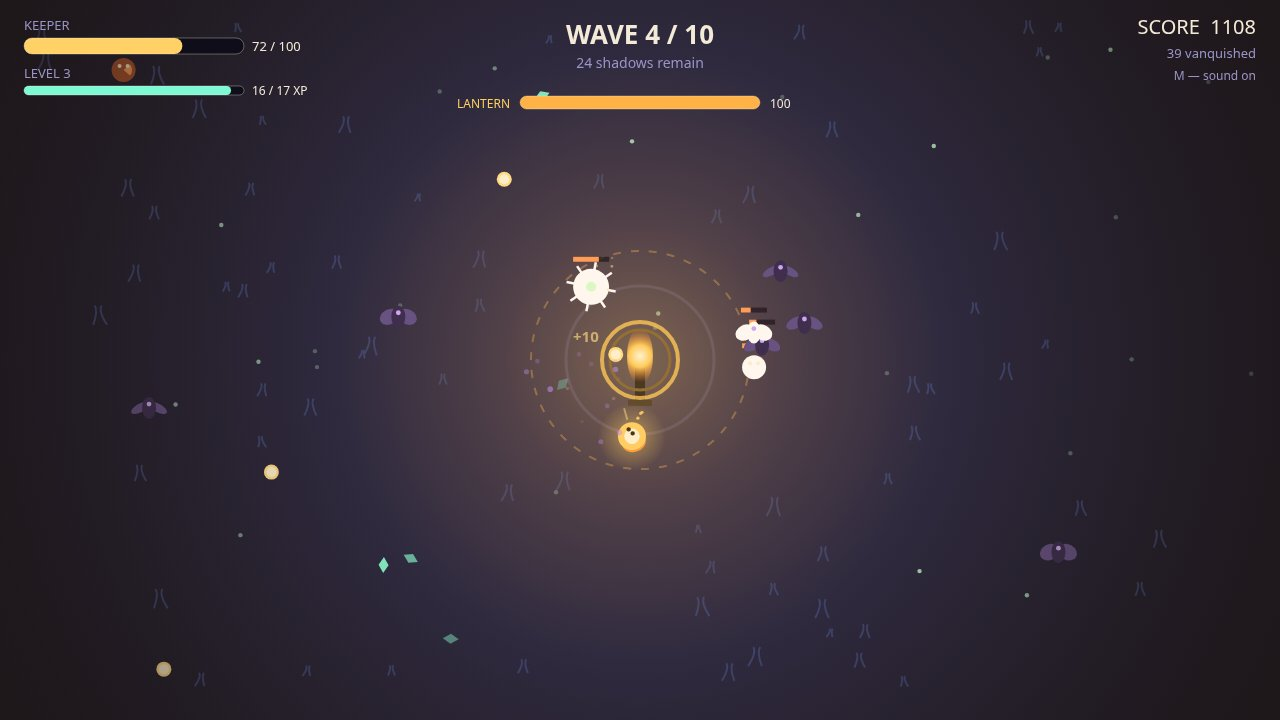
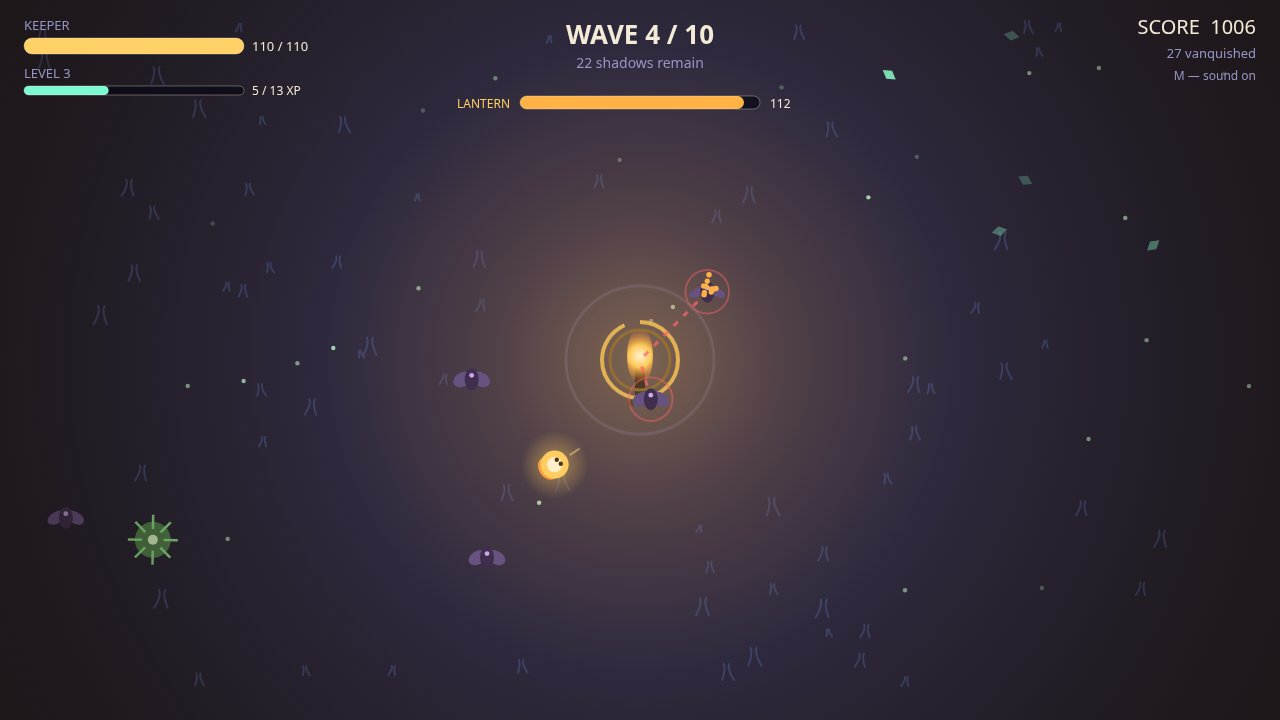
EMBERFALL final — balance tuning, Ember Chain, telegraphs, new screenshots

diff --git a/game/src/render.js b/game/src/render.js
@@ -4,6 +4,7 @@
 // canvas, scaled to fit, and shakes the whole view when the world says so.
 
 import { FIELD, FONT, LANTERN, PALETTE } from './config.js';
+import { enemyTarget } from './enemies.js';
 import { auraRadius } from './upgrades.js';
 
 export const SCREEN_TITLE = 'title';
@@ -32,11 +33,19 @@ export function createRenderer(canvas) {
   function drawGround(state) {
     ctx.fillStyle = PALETTE.backdrop;
     ctx.fillRect(0, 0, FIELD.width, FIELD.height);
-    // The garden floor: a soft radial wash, darker at the edges.
+    // The garden floor: a soft radial wash, darker at the edges. The wash shifts with
+    // the night — boss waves burn red at the edges, late waves sink deeper violet —
+    // so each wave reads differently in a screenshot.
+    const wave = state.waves.wave;
+    const washStops = wave % 5 === 0 && wave > 0
+      ? ['#2c1f4e', '#1c1436', '#120a24']
+      : wave >= 8 ? ['#1d2350', '#141736', '#0a0c20']
+        : wave >= 5 ? ['#262a58', '#181b3c', '#0c0e22']
+          : ['#232650', '#171a38', '#0b0d20'];
     const wash = ctx.createRadialGradient(LANTERN.x, LANTERN.y, 60, LANTERN.x, LANTERN.y, 700);
-    wash.addColorStop(0, '#232650');
-    wash.addColorStop(0.55, '#171a38');
-    wash.addColorStop(1, '#0b0d20');
+    wash.addColorStop(0, washStops[0]);
+    wash.addColorStop(0.55, washStops[1]);
+    wash.addColorStop(1, washStops[2]);
     ctx.fillStyle = wash;
     ctx.fillRect(0, 0, FIELD.width, FIELD.height);
     // Grass tufts sway in the dark.
@@ -141,6 +150,39 @@ export function createRenderer(canvas) {
 
   function drawEnemy(state, enemy) {
     const flash = enemy.hitFlash > 0;
+    // Telegraph: a shadow marching on the lantern shows a dashed red thread to it,
+    // pulsing hard when it is about to bite — the keeper can see the danger coming
+    // and which foe to burn first. The boss always wears a pulsing danger ring.
+    const target = enemyTarget(enemy, state.player, state.lantern);
+    const toLantern = Math.hypot(enemy.x - LANTERN.x, enemy.y - LANTERN.y);
+    if (target === state.lantern && toLantern < 300) {
+      const near = toLantern < 120;
+      const pulse = 0.35 + 0.3 * Math.sin(state.time * 8);
+      ctx.strokeStyle = `rgba(255, 93, 115, ${near ? Math.max(0.55, pulse + 0.3).toFixed(3) : pulse.toFixed(3)})`;
+      ctx.lineWidth = near ? 3 : 2;
+      ctx.setLineDash([6, 8]);
+      ctx.beginPath();
+      ctx.moveTo(enemy.x, enemy.y);
+      ctx.lineTo(LANTERN.x, LANTERN.y);
+      ctx.stroke();
+      ctx.setLineDash([]);
+      if (near) {
+        ctx.strokeStyle = `rgba(255, 93, 115, ${Math.max(0.4, pulse).toFixed(3)})`;
+        ctx.lineWidth = 2;
+        ctx.beginPath();
+        ctx.arc(enemy.x, enemy.y, enemy.radius + 8 + Math.sin(state.time * 8) * 3, 0, Math.PI * 2);
+        ctx.stroke();
+      }
+    }
+    if (enemy.kind === 'boss') {
+      ctx.strokeStyle = `rgba(255, 93, 115, ${(0.4 + 0.25 * Math.sin(state.time * 5)).toFixed(3)})`;
+      ctx.lineWidth = 3;
+      ctx.setLineDash([10, 8]);
+      ctx.beginPath();
+      ctx.arc(enemy.x, enemy.y, 92 + Math.sin(state.time * 5) * 5, 0, Math.PI * 2);
+      ctx.stroke();
+      ctx.setLineDash([]);
+    }
     ctx.save();
     ctx.translate(enemy.x, enemy.y);
     if (enemy.kind === 'moth') {
@@ -339,6 +381,16 @@ export function createRenderer(canvas) {
     }
     if (state.flash > 0) {
       ctx.fillStyle = `rgba(255, 170, 60, ${(state.flash * 0.18).toFixed(3)})`;
+      ctx.fillRect(0, 0, FIELD.width, FIELD.height);
+    }
+    // A failing lantern throbs red at the screen's edge — impossible to miss.
+    const lfrac = state.lantern.hp / state.lantern.maxHp;
+    if (lfrac < 0.3 && !state.over) {
+      const throb = 0.10 + 0.08 * Math.sin(state.time * 6);
+      const edge = ctx.createRadialGradient(640, 360, 260, 640, 360, 720);
+      edge.addColorStop(0, 'rgba(255, 40, 70, 0)');
+      edge.addColorStop(1, `rgba(255, 40, 70, ${throb.toFixed(3)})`);
+      ctx.fillStyle = edge;
       ctx.fillRect(0, 0, FIELD.width, FIELD.height);
     }
   }

diff --git a/game/src/config.js b/game/src/config.js
@@ -14,15 +14,15 @@ export const WAVES_TO_WIN = 10;
 export const PLAYER = {
   radius: 14,
   speed: 255,
-  maxHp: 100,
+  maxHp: 110,
   pickupRadius: 46,
-  fireInterval: 0.34,
+  fireInterval: 0.32,
   boltSpeed: 640,
-  boltDamage: 14,
+  boltDamage: 15,
   boltRadius: 5,
-  invulnerable: 0.8,
-  xpNextBase: 5,
-  xpNextPerLevel: 4,
+  invulnerable: 1.0,
+  xpNextBase: 4,
+  xpNextPerLevel: 3,
 };
 
 export const BOLT = { radius: 5, life: 1.4 };
@@ -31,35 +31,38 @@ export const SHARD = { radius: 7, value: 1, life: 25 };
 
 /** Enemy kinds. `target` is who they hunt: 'player', 'lantern', or 'nearest'. */
 export const ENEMY = {
-  moth: { hp: 18, speed: 98, radius: 13, touch: 8, lanternTouch: 5, score: 10, shards: 1, target: 'nearest', colour: '#b78cff' },
-  thorn: { hp: 58, speed: 52, radius: 18, touch: 14, lanternTouch: 8, score: 25, shards: 3, target: 'lantern', colour: '#7fe08a' },
-  eater: { hp: 30, speed: 132, radius: 12, touch: 10, lanternTouch: 7, score: 15, shards: 2, target: 'player', colour: '#ff9d5c' },
-  boss: { hp: 540, speed: 62, radius: 42, touch: 18, lanternTouch: 10, score: 200, shards: 10, target: 'nearest', colour: '#e5536b' },
+  moth: { hp: 18, speed: 98, radius: 13, touch: 7, lanternTouch: 4, score: 10, shards: 1, target: 'nearest', colour: '#b78cff' },
+  thorn: { hp: 58, speed: 52, radius: 18, touch: 12, lanternTouch: 6, score: 25, shards: 3, target: 'lantern', colour: '#7fe08a' },
+  eater: { hp: 30, speed: 124, radius: 12, touch: 9, lanternTouch: 5, score: 15, shards: 2, target: 'player', colour: '#ff9d5c' },
+  boss: { hp: 500, speed: 62, radius: 42, touch: 16, lanternTouch: 8, score: 200, shards: 10, target: 'nearest', colour: '#e5536b' },
 };
 
-/** Wave n (1-based) composition: how many of each kind queue up, and how fast they arrive. */
+/** Wave n (1-based) composition: how many of each kind queue up, and how fast they arrive.
+ *  The early curve is deliberately gentle — fewer foes, slower trickle, thorns and eaters
+ *  debut on waves 3 and 4 — so a human player learns the guard before the swarm thickens.
+ *  Late waves keep the probe's full pressure (counts and scaling catch up by wave 6+). */
 export function waveComposition(n) {
-  const moths = 4 + 3 * n;
-  const thorns = n >= 2 ? 1 + Math.floor(n / 2) : 0;
-  const eaters = n >= 3 ? 2 * n - 2 : 0;
+  const moths = 4 + 3 * n - (n <= 2 ? 2 : 0);
+  const thorns = n >= 3 ? Math.floor(n / 2) : 0;
+  const eaters = n >= 4 ? 2 * n - 4 : 0;
   const boss = n % 5 === 0 ? 1 : 0;
-  const interval = Math.max(0.42, 1.05 - 0.05 * n);
-  const hpScale = 1 + 0.09 * (n - 1);
+  const interval = Math.max(0.42, 1.25 - 0.06 * n);
+  const hpScale = 1 + 0.08 * (n - 1);
   const speedScale = 1 + 0.02 * (n - 1);
   return { moths, thorns, eaters, boss, interval, hpScale, speedScale };
 }
 
 /** Seconds of calm between waves; the lantern mends a little in the lull. */
 export const BETWEEN_WAVES = 4;
-export const LANTERN_MEND_BETWEEN_WAVES = 12;
+export const LANTERN_MEND_BETWEEN_WAVES = 18;
 
 /** Damage per second the lantern's own flame deals to anything touching it. */
-export const LANTERN_FLAME_DPS = 6;
+export const LANTERN_FLAME_DPS = 16;
 
 /** At most this many enemies alive at once; the rest wait in the wave queue. */
 export const MAX_ALIVE = 22;
 
-export const LANTERN_MAX_HP = 100;
+export const LANTERN_MAX_HP = 120;
 export const LANTERN_AURA_BASE_RADIUS = 95;
 export const LANTERN_AURA_BASE_DPS = 0;
 

diff --git a/game/src/world.js b/game/src/world.js
@@ -89,6 +89,8 @@ export function createWorld(random) {
     levelUpsPending: 0,
     attractTimer: 0,
     wave: 0,
+    combo: 0,
+    comboTimer: 0,
   };
 
   function reset() {
@@ -114,6 +116,8 @@ export function createWorld(random) {
     state.pendingChoices = null;
     state.levelUpsPending = 0;
     state.attractTimer = 0;
+    state.combo = 0;
+    state.comboTimer = 0;
     waves.betweenTimer = 1.2;
     waves.wave = 0;
   }
@@ -142,6 +146,14 @@ export function createWorld(random) {
     enemy.dead = true;
     state.kills += 1;
     state.score += enemy.score;
+    // Ember chain: quick kills in a row feed a combo that pays a small bonus and
+    // flashes on screen, so aggressive play feels — and scores — better.
+    state.combo += 1;
+    state.comboTimer = 2.5;
+    if (state.combo >= 3) state.score += Math.min(state.combo, 12);
+    if (state.combo === 5 || state.combo === 10 || state.combo === 15 || state.combo === 25) {
+      addFloater(state, enemy.x, enemy.y - enemy.radius - 26, `EMBER CHAIN ×${state.combo}`, '#ff9d3c', 18);
+    }
     addFloater(state, enemy.x, enemy.y - enemy.radius - 6, `+${enemy.score}`, '#ffe08a', 15);
     burst(state, enemy.x, enemy.y, isBoss(enemy) ? 46 : 14, enemy.colour, isBoss(enemy) ? 260 : 170, 0.7, 4);
     burst(state, enemy.x, enemy.y, 8, '#ffe9b0', 120, 0.5, 3);
@@ -268,7 +280,11 @@ export function createWorld(random) {
     if (kind !== null) {
       const enemy = spawnEnemy(random, kind, waves.wave, waves.hpScale, waves.speedScale);
       state.enemies.push(enemy);
-      if (isBoss(enemy)) events |= EVENT_BOSS;
+      if (isBoss(enemy)) {
+        events |= EVENT_BOSS;
+        state.shake = Math.max(state.shake, 0.4);
+        addFloater(state, LANTERN.x, LANTERN.y - 90, '⚠ THE GLOOM MOTH COMES ⚠', '#ff5d73', 20);
+      }
     }
     if (waves.readyForNext) {
       startWave(waves, random, waves.wave + 1);
@@ -412,12 +428,15 @@ export function createWorld(random) {
       }
     }
 
-    // Wave cleared: bonus, a mended lantern, and either dawn or the next wave.
+    // Wave cleared: bonus, a mended lantern, the keeper catches breath, and either dawn or the next wave.
     if (waveCleared(waves, state.enemies.length)) {
       const bonus = 100 * waves.wave;
       state.score += bonus;
-      addFloater(state, LANTERN.x, LANTERN.y - 70, `WAVE ${waves.wave} CLEAR  +${bonus}`, '#ffe08a', 18);
+      addFloater(state, LANTERN.x + 320, LANTERN.y + 150, `WAVE ${waves.wave} CLEAR  +${bonus}`, '#ffe08a', 18);
       lantern.hp = Math.min(lantern.maxHp, lantern.hp + LANTERN_MEND_BETWEEN_WAVES);
+      healPlayer(player, 12);
+      state.combo = 0;
+      state.comboTimer = 0;
       events |= EVENT_WAVE_CLEAR;
       if (waves.wave >= WAVES_TO_WIN) {
         state.won = true;
@@ -425,6 +444,12 @@ export function createWorld(random) {
       } else {
         startBetweenWaves(waves);
       }
+    }
+
+    // The ember chain cools off when the keeper stops burning shadows.
+    if (state.comboTimer > 0) {
+      state.comboTimer -= dt;
+      if (state.comboTimer <= 0) state.combo = 0;
     }
 
     stepParticles(dt);

diff --git a/game/src/ui.js b/game/src/ui.js
@@ -88,11 +88,12 @@ export function createUi() {
     const remaining = state.enemies.length + state.waves.queue.length;
     bodyText(ctx, state.waves.active ? `${remaining} shadow${remaining === 1 ? '' : 's'} remain` : 'the garden breathes…', FIELD.width / 2, 68, 14, PALETTE.muted);
 
-    // Top-right: score, kills, mute.
+    // Top-right: score, kills, ember chain, mute.
     ctx.textAlign = 'right';
     bodyText(ctx, `SCORE  ${state.score}`, FIELD.width - 24, 34, 20, PALETTE.text, 'right');
     bodyText(ctx, `${state.kills} vanquished`, FIELD.width - 24, 58, 13, PALETTE.muted, 'right');
-    bodyText(ctx, muted ? 'M — sound off' : 'M — sound on', FIELD.width - 24, 80, 12, PALETTE.muted, 'right');
+    if (state.combo >= 3) bodyText(ctx, `EMBER CHAIN ×${state.combo}`, FIELD.width - 24, 80, 14, '#ff9d3c', 'right');
+    bodyText(ctx, muted ? 'M — sound off' : 'M — sound on', FIELD.width - 24, state.combo >= 3 ? 102 : 80, 12, PALETTE.muted, 'right');
 
     // Lantern health, under the wave label: the flame you are guarding.
     const lfrac = lantern.hp / lantern.maxHp;
@@ -105,6 +106,7 @@ export function createUi() {
       const alpha = Math.min(1, state.waves.banner / 0.6);
       ctx.globalAlpha = alpha;
       titleText(ctx, state.waves.bannerText, FIELD.width / 2, 210, 40, '#ffe9b0');
+      if (state.waves.bannerSub) bodyText(ctx, state.waves.bannerSub, FIELD.width / 2, 244, 17, PALETTE.muted);
       ctx.globalAlpha = 1;
     }
   }
@@ -123,7 +125,8 @@ export function createUi() {
     bodyText(ctx, 'and hold until dawn breaks.', 640, 338, 18, PALETTE.text);
     bodyText(ctx, 'WASD / arrows — move      Mouse — aim      Hold click — shoot (or it fires on its own)', 640, 388, 16, PALETTE.muted);
     bodyText(ctx, 'Shadows hunt you AND the lantern. Gather light shards, level up, choose blessings.', 640, 414, 16, PALETTE.muted);
-    bodyText(ctx, 'P — pause      M — mute      R — restart', 640, 440, 16, PALETTE.muted);
+    bodyText(ctx, 'A red thread marks a shadow creeping for the lantern — burn it first.', 640, 438, 16, '#ff8ba0');
+    bodyText(ctx, 'P — pause      M — mute      R — restart', 640, 464, 16, PALETTE.muted);
     // Start button.
     const bw = 300;
     const bh = 62;

diff --git a/game/src/upgrades.js b/game/src/upgrades.js
@@ -2,7 +2,7 @@
 // A choice is offered only while it still does something — a maxed blessing never shows
 // again, and the lantern-mending blessing only appears while the lantern is hurt.
 
-import { LANTERN_AURA_BASE_RADIUS, NOVA } from './config.js';
+import { LANTERN_AURA_BASE_RADIUS, NOVA, PLAYER } from './config.js';
 
 export const UPGRADES = [
   {
@@ -10,8 +10,8 @@ export const UPGRADES = [
     name: 'Rapid Embers',
     desc: '+18% fire rate — your bolts fly faster.',
     max: 5,
-    level: (p) => Math.round((0.34 / p.fireInterval - 1) / 0.18),
-    canOffer: (p) => p.fireInterval > 0.34 / 1.18 ** 5 + 0.001,
+    level: (p) => Math.round((PLAYER.fireInterval / p.fireInterval - 1) / 0.18),
+    canOffer: (p) => p.fireInterval > PLAYER.fireInterval / 1.18 ** 5 + 0.001,
     apply: (p) => { p.fireInterval /= 1.18; },
   },
   {
@@ -28,8 +28,8 @@ export const UPGRADES = [
     name: 'Heavy Embers',
     desc: '+30% bolt damage — shadows burst sooner.',
     max: 5,
-    level: (p) => Math.round((p.damage / 14 - 1) / 0.3),
-    canOffer: (p) => p.damage < 14 * 1.3 ** 5 + 0.01,
+    level: (p) => Math.round((p.damage / PLAYER.boltDamage - 1) / 0.3),
+    canOffer: (p) => p.damage < PLAYER.boltDamage * 1.3 ** 5 + 0.01,
     apply: (p) => { p.damage *= 1.3; },
   },
   {
@@ -55,8 +55,8 @@ export const UPGRADES = [
     name: 'Swift Wisp',
     desc: '+12% movement speed — outrun the dark.',
     max: 4,
-    level: (p) => Math.round((p.speed / 255 - 1) / 0.12),
-    canOffer: (p) => p.speed < 255 * 1.12 ** 4 + 0.01,
+    level: (p) => Math.round((p.speed / PLAYER.speed - 1) / 0.12),
+    canOffer: (p) => p.speed < PLAYER.speed * 1.12 ** 4 + 0.01,
     apply: (p) => { p.speed *= 1.12; },
   },
   {
@@ -73,8 +73,8 @@ export const UPGRADES = [
     name: 'Ember Heart',
     desc: '+25 max health and mend 25 now.',
     max: 4,
-    level: (p) => Math.round((p.maxHp / 100 - 1) / 0.25),
-    canOffer: (p) => p.maxHp < 200,
+    level: (p) => Math.round((p.maxHp / PLAYER.maxHp - 1) / 0.25),
+    canOffer: (p) => p.maxHp < PLAYER.maxHp + 100,
     apply: (p) => { p.maxHp += 25; p.hp = Math.min(p.maxHp, p.hp + 25); },
   },
   {

diff --git a/game/src/shots.js b/game/src/shots.js
@@ -191,15 +191,16 @@ export function stageShot(name, world) {
     }
     return { screen: world.state.over ? SCREEN_OVER : SCREEN_PLAY, best: world.state.score };
   }
-  // play: a busy mid-fight frame. First fight to wave 4, then hold fire for a few
-  // seconds so the swarm builds around the lantern, then open fire again — the shot
-  // catches the fight at its thickest, with bolts, shards and shadows on screen.
+  // play: a busy mid-fight frame. Fight to the start of wave 4, then hold fire while
+  // the fresh swarm walks in from the edges — the shot catches a dozen shadows
+  // converging on the lantern, red telegraph threads and all, bolts still flying
+  // from the last volley. (Firing through the build-up thins the swarm too fast
+  // for a dense frame, so the keeper only gathers shards here.)
   for (let i = 0; i < PLAY_LIMIT_SECONDS / STEP; i += 1) {
     const events = autoStep(world, autopilot);
     if (events & EVENT_OVER) break;
     if (world.state.waves.wave >= 4) break;
   }
-  for (let i = 0; i < 8 / STEP && !world.state.over; i += 1) autoStep(world, gatherPilot);
-  for (let i = 0; i < 1.5 / STEP && !world.state.over; i += 1) autoStep(world, autopilot);
+  for (let i = 0; i < 6 / STEP && !world.state.over; i += 1) autoStep(world, gatherPilot);
   return { screen: SCREEN_PLAY, best: world.state.score };
 }

diff --git a/game/src/waves.js b/game/src/waves.js
@@ -18,6 +18,7 @@ export function createWaves() {
     active: false,
     banner: 0,
     bannerText: '',
+    bannerSub: '',
   };
 }
 
@@ -53,6 +54,12 @@ export function startWave(waves, random, n) {
   waves.betweenTimer = 0;
   waves.banner = 2.4;
   waves.bannerText = n % 5 === 0 ? `WAVE ${n} — THE GLOOM MOTH` : `WAVE ${n}`;
+  waves.bannerSub = n % 5 === 0
+    ? 'burn the boss — its brood follows'
+    : n === 3 ? 'new foe: thorn wisps creep for the lantern'
+      : n === 4 ? 'new foe: ember-eaters hunt the keeper'
+        : n === 1 ? 'moths drift in — guard the flame'
+          : '';
 }
 
 /** Begin the calm between waves. */
@@ -61,6 +68,7 @@ export function startBetweenWaves(waves) {
   waves.betweenTimer = BETWEEN_WAVES;
   waves.banner = 2.0;
   waves.bannerText = 'THE GARDEN BREATHES…';
+  waves.bannerSub = 'the lantern mends — catch your breath';
 }
 
 /**

diff --git a/game/src/enemies.js b/game/src/enemies.js
@@ -75,7 +75,7 @@ export function moveEnemy(enemy, dt, target, time) {
 export function bossSpawnTimer(enemy, dt) {
   enemy.spawnTimer -= dt;
   if (enemy.spawnTimer <= 0) {
-    enemy.spawnTimer = 8;
+    enemy.spawnTimer = 10;
     return true;
   }
   return false;
